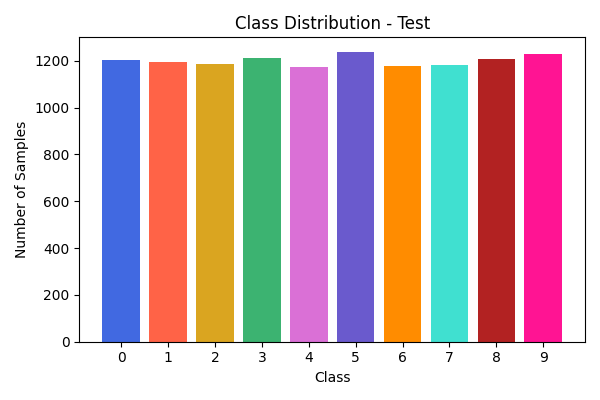
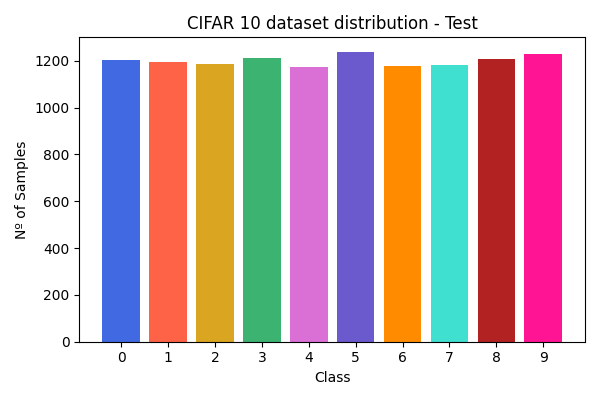
asd

Changed region(s): [[0.3, 0.03, 0.72, 0.09], [0.0, 0.3, 0.06, 0.66], [0.75, 0.03, 0.81, 0.09]]

diff --git a/utils/utils.py b/utils/utils.py
@@ -1,15 +1,17 @@
+from env import *
 import numpy as np
+from torch.utils.data import Subset
 import os
 import matplotlib.pyplot as plt
 import torch
-from torch.utils.data import Subset
 from collections import Counter
-from env import *
 import csv
 import pandas as pd
 from torchvision.transforms import functional as F
 from matplotlib.ticker import MaxNLocator
 import matplotlib.cm as cm
+from PIL import Image
+
 
 CLASS_COLORS = ['royalblue', 'tomato', 'goldenrod','mediumseagreen', 'orchid', 'slateblue',  'darkorange', 'turquoise', 'firebrick', 'deeppink']
 
@@ -18,15 +20,23 @@ def get_label_distribution(dataset):
     labels = [dataset[i][1] for i in range(len(dataset))]
     return Counter(labels)
 
-def plot_distribution(distribution, split_name, save_path='.', colors=CLASS_COLORS):
+def plot_distribution(dataset, distribution, split_name, save_path='.', colors=CLASS_COLORS):
     classes = sorted(distribution.keys())
     counts = [distribution[c] for c in classes]
+
+    if dataset == "CIFAR-10":
+        dataset = "CIFAR 10"
+    elif dataset == "MNIST_FASHION":
+        dataset = "MNIST Fashion"
+    elif dataset == "EMNIST_DIGITS":
+        dataset = "EMNIST Digits"
+
 
     plt.figure(figsize=(6, 4))
     plt.bar([str(c) for c in classes], counts, color=colors[:len(classes)])
     plt.xlabel('Class')
-    plt.ylabel('Number of Samples')
-    plt.title(f'Class Distribution - {split_name}')
+    plt.ylabel('Nº of Samples')
+    plt.title(f'{dataset} dataset distribution - {split_name}')
     plt.tight_layout()
 
     os.makedirs(save_path, exist_ok=True)
@@ -80,40 +90,90 @@ def plot_sample_images(dataset, classes, num_samples=6):
 
 
 
-def plot_sample_images(dataset, classes=[0, 1, 2], num_samples=3):
-    # Mapear as classes numéricas para seus respectivos nomes no FashionMNIST ou CIFAR-10
-    class_names = ['T-shirt/top', 'Trouser', 'Pullover']  # Para FashionMNIST (adaptar para CIFAR-10)
+def plot_sample_images(dataset, classes, num_samples=5, num_classes=10, save_path='sample_plot.png'):
+    """
+    Plota e salva uma grade de imagens com uma coluna por classe e uma linha por amostra.
 
-    # Criar um dicionário para armazenar imagens de cada classe
+    Parâmetros:
+        dataset (torch.utils.data.Dataset): Dataset PyTorch (ex: CIFAR-10, FashionMNIST, MNIST, EMNIST).
+        classes (list): Lista de índices das classes a visualizar (1 por coluna).
+        num_samples (int): Número de imagens por classe (1 por linha).
+        num_classes (int): Número de classes a incluir no plot (limita o tamanho de `classes`).
+        save_path (str): Caminho para salvar a figura gerada.
+    """
+
+    # Reduzir a lista de classes conforme o limite desejado
+    classes = classes[:num_classes]
+
+    # Identificar o nome do dataset
+    dataset_name = dataset.__class__.__name__
+
+    if 'CIFAR10' in dataset_name:
+        all_class_names = [
+            'airplane', 'automobile', 'bird', 'cat', 'deer',
+            'dog', 'frog', 'horse', 'ship', 'truck'
+        ]
+    elif 'FashionMNIST' in dataset_name:
+        all_class_names = [
+            'T-shirt/top', 'Trouser', 'Pullover', 'Dress', 'Coat',
+            'Sandal', 'Shirt', 'Sneaker', 'Bag', 'Ankle boot'
+        ]
+    elif 'MNIST' in dataset_name and 'Fashion' not in dataset_name:
+        all_class_names = [str(i) for i in range(10)]
+    elif 'EMNIST' in dataset_name:
+        all_class_names = [chr(i) for i in range(ord('A'), ord('Z') + 1)]
+    elif 'SVHN' in dataset_name:
+        all_class_names = [str(i) for i in range(10)]
+    else:
+        all_class_names = [str(i) for i in range(100)]
+
+    is_emnist_letters = 'EMNIST' in dataset_name and max(classes) > 9
+
+    class_names = {}
+    for i in classes:
+        if is_emnist_letters:
+            class_names[i] = all_class_names[i - 1]
+        else:
+            class_names[i] = all_class_names[i]
+
     class_images = {cls: [] for cls in classes}
     
-    # Encontrar 'num_samples' imagens para cada classe
     for img, label in dataset:
+        label = label.item() if isinstance(label, torch.Tensor) else label
         if label in classes and len(class_images[label]) < num_samples:
             class_images[label].append(img)
-        
-        # Stop early if we have enough images for all classes
         if all(len(class_images[cls]) >= num_samples for cls in classes):
             break
-    
-    # Criar as subplots para as imagens por classe (matriz)
-    fig, axes = plt.subplots(len(classes), num_samples, figsize=(15, 5))
-    
-    for i, cls in enumerate(classes):
-        for j, img in enumerate(class_images[cls]):
-            # Verificar se a imagem é RGB ou em escala de cinza
-            if img.ndimension() == 3:  # RGB (C, H, W)
-                img = img.permute(1, 2, 0)  # Transforma para (H, W, C)
-            
-            axes[i, j].imshow(img.squeeze(), cmap='gray' if img.ndimension() == 2 else None)
-            axes[i, j].set_xticks([])  # Remover marcações do eixo X
-            axes[i, j].set_yticks([])  # Remover marcações do eixo Y
-            
-        # Definir o título da linha (para todas as imagens dessa classe)
-        axes[i, 0].set_ylabel(f"{class_names[cls]}", fontsize=14)
-    
+
+    fig, axes = plt.subplots(num_samples, len(classes), figsize=(len(classes)*2.5, num_samples*2.5))
+
+    if num_samples == 1:
+        axes = axes.reshape(1, -1)
+    if len(classes) == 1:
+        axes = axes.reshape(-1, 1)
+
+    for col, cls in enumerate(classes):
+        for row, img in enumerate(class_images[cls]):
+            ax = axes[row, col]
+
+            if isinstance(img, Image.Image):
+                img = to_tensor(img)
+
+            if img.min() < 0:
+                img = img * 0.5 + 0.5
+
+            if img.ndimension() == 3:
+                img = img.permute(1, 2, 0)
+
+            ax.imshow(img.squeeze(), cmap='gray' if img.ndimension() == 2 or img.shape[-1] == 1 else None)
+            ax.axis('off')  # <-- Aqui desativa os eixos
+
+        axes[0, col].set_title(class_names[cls], fontsize=12)
+
     plt.tight_layout()
+    plt.savefig(save_path)
     plt.show()
+    plt.close()
 
 # Filter dataset for selected classes (e.g., [0, 1, 2])
 def filter_classes(dataset, classes=[0, 1, 2]):

diff --git a/main.py b/main.py
@@ -210,30 +210,38 @@ def main(dataset):
 
     path_dir = os.path.join(RESULTS_PATH, DATASET_IN_USE)
 
-    transform = transforms.Compose([transforms.ToTensor(), transforms.Normalize((0.5,), (0.5,))])
-
+    transform_28_28 = transform = transforms.Compose([transforms.Pad(2), 
+                                                    transforms.ToTensor(), 
+                                                    transforms.Normalize((0.5,), (0.5,))])
+    transform_32_32 = transforms.Compose([transforms.ToTensor(), transforms.Normalize((0.5,), (0.5,))])
+   
     if DATASET_IN_USE == DATASET_MNIST:
-        train_data = datasets.MNIST(root='./data', train=True, download=True, transform=transform)
-        test_data = datasets.MNIST(root='./data', train=False, download=True, transform=transform)
+        train_data = datasets.MNIST(root='./data', train=True, download=True, transform=transform_28_28)
+        test_data = datasets.MNIST(root='./data', train=False, download=True, transform=transform_28_28)
 
     elif DATASET_IN_USE == DATASET_MNIST_FASHION:
-        train_data = datasets.FashionMNIST(root='./data', train=True, download=True, transform=transform)
-        test_data = datasets.FashionMNIST(root='./data', train=False, download=True, transform=transform)
+        train_data = datasets.FashionMNIST(root='./data', train=True, download=True, transform=transform_28_28)
+        test_data = datasets.FashionMNIST(root='./data', train=False, download=True, transform=transform_28_28)
 
     elif DATASET_IN_USE == DATASET_CIFAR_10:
-        train_data = datasets.CIFAR10(root='./data', train=True, download=True, transform=transform)
-        test_data = datasets.CIFAR10(root='./data', train=False, download=True, transform=transform)
+        train_data = datasets.CIFAR10(root='./data', train=True, download=True, transform=transform_32_32)
+        test_data = datasets.CIFAR10(root='./data', train=False, download=True, transform=transform_32_32)
 
     elif DATASET_IN_USE == DATASET_EMNIST_DIGITS:
-        train_data = datasets.EMNIST(root='./data', split='digits', train=True, download=True, transform=transform)
-        test_data = datasets.EMNIST(root='./data', split='digits', train=False, download=True, transform=transform)
+        train_data = datasets.EMNIST(root='./data', split='digits', train=True, download=True, transform=transform_28_28)
+        test_data = datasets.EMNIST(root='./data', split='digits', train=False, download=True, transform=transform_28_28)
+    
+    elif DATASET_IN_USE == DATASET_EMNIST_LETTERS:
+        train_data = datasets.EMNIST(root='./data', split='letters', train=True, download=True, transform=transform_28_28)
+        test_data = datasets.EMNIST(root='./data', split='letters', train=False, download=True, transform=transform_28_28)
     
     elif DATASET_IN_USE == DATASET_SVHN:
         train_data = datasets.SVHN(root='./data', split='train', download=True, transform=transform)
         test_data = datasets.SVHN(root='./data', split='test', download=True, transform=transform)
     else:
         raise ValueError(f"Invalid Dataset : {DATASET_IN_USE}")
-        
+    
+    plot_sample_images(dataset=test_data, classes=CLASSES, num_samples=5, save_path=path_dir)    
 
     train_data = filter_classes(train_data, classes=CLASSES)
     test_data = filter_classes(test_data, classes=CLASSES)
@@ -261,10 +269,11 @@ def main(dataset):
     test_dist = get_label_distribution(test_set)
     
     save_class_distributions_to_csv(train_dist, val_dist, test_dist, path_dir)
-    plot_distribution(train_dist, "Train", save_path=path_dir, colors=CLASS_COLORS)
-    plot_distribution(val_dist, "Validation", save_path=path_dir, colors=CLASS_COLORS)
-    plot_distribution(test_dist, "Test", save_path=path_dir, colors=CLASS_COLORS)
+    plot_distribution(dataset=DATASET_IN_USE, distribution=train_dist, split_name="Train", save_path=path_dir, colors=CLASS_COLORS)
+    plot_distribution(dataset=DATASET_IN_USE, distribution=val_dist, split_name="Validation", save_path=path_dir, colors=CLASS_COLORS)
+    plot_distribution(dataset=DATASET_IN_USE, distribution=test_dist, split_name="Test", save_path=path_dir, colors=CLASS_COLORS)
 
+    
     train_loader = DataLoader(train_set, batch_size=64, shuffle=True)
     val_loader = DataLoader(val_set, batch_size=64, shuffle=True)
     test_loader = DataLoader(test_set, batch_size=64, shuffle=True)

diff --git a/entities/LeNet5.py b/entities/LeNet5.py
@@ -19,7 +19,7 @@ class LeNet5(nn.Module):
         self.lr = lr
         self.batch_size = batch_size
 
-        if dataset in (DATASET_CIFAR_10 or DATASET_SVHN): 
+        if dataset in (DATASET_CIFAR_10, DATASET_SVHN):
             in_channels = 3
         else:
             in_channels = 1
@@ -30,15 +30,8 @@ class LeNet5(nn.Module):
         # Camada 2: Convolucional com 16 filtros de 5x5
         self.conv2 = nn.Conv2d(6, 16, kernel_size=5)
         
-
-        if dataset in (DATASET_CIFAR_10 or DATASET_SVHN):
-            # Após conv1 (6 filtros 5x5) + pool: 28x28 -> 14x14
-            # Após conv2 (16 filtros 5x5) + pool: 10x10 -> 5x5
-            fc_input_size = 16 * 5 * 5  # 16 filtros, cada um de tamanho 5x5 após pooling
-        else:
-             # Para MNIST, a entrada é 28x28 e a estrutura é similar.
-            fc_input_size = 16 * 4 * 4  # Após as camadas convolucionais e pooling
-
+        fc_input_size = 16 * 5 * 5  # 16 filtros, cada um de tamanho 5x5 após pooling
+    
         self.fc1 = nn.Linear(fc_input_size, 120)
         self.fc2 = nn.Linear(120, 84)
         self.fc3 = nn.Linear(84, len(CLASSES))
@@ -104,6 +97,7 @@ class LeNet5(nn.Module):
             outputs = self(X_tensor)  
             _, predicted = torch.max(outputs, 1)
         return predicted.cpu().numpy()
+    
 
     def predict_proba(self, X):
         self.eval()  # Coloca o modelo no modo de avaliação

diff --git a/env.py b/env.py
@@ -22,7 +22,7 @@ LEARNING_RATE = 0.002
 EPHOCS = 10
 BATCH_SIZE = 256
 
-NUM_CYCLES = 300
+NUM_CYCLES = 1
 POOL_SIZE = 16
 CLASSES = [0, 1, 2, 3, 4, 5, 6, 7, 8, 9]
 
@@ -45,6 +45,8 @@ DATASET_MNIST = "MNIST"
 DATASET_MNIST_FASHION = "MNIST_FASHION"
 DATASET_EMNIST_DIGITS = "EMNIST_DIGITS"
 DATASET_SVHN = 'SVHN'
+DATASET_EMNIST_LETTERS = 'EMNIST_LETTERS'
+
 DATASETS = [DATASET_CIFAR_10, DATASET_MNIST, DATASET_MNIST_FASHION, DATASET_EMNIST_DIGITS]
 
 UNCERTAINTY_SAMPLING = uncertainty_sampling 

diff --git a/entities/Committee.py b/entities/Committee.py
@@ -27,7 +27,7 @@ class Committee:
             else:                                       
                 alpha, beta = 0.5, 0.5  
 
-            print(f"alpha: {alpha}, beta: {beta}")
+            #print(f"alpha: {alpha}, beta: {beta}")
             ann = Annotator(id=i, seed=seed+i, num_classes=len(CLASSES), alpha=alpha, beta=beta, expertise=expertise)
             self.annotators.append(ann)
     
